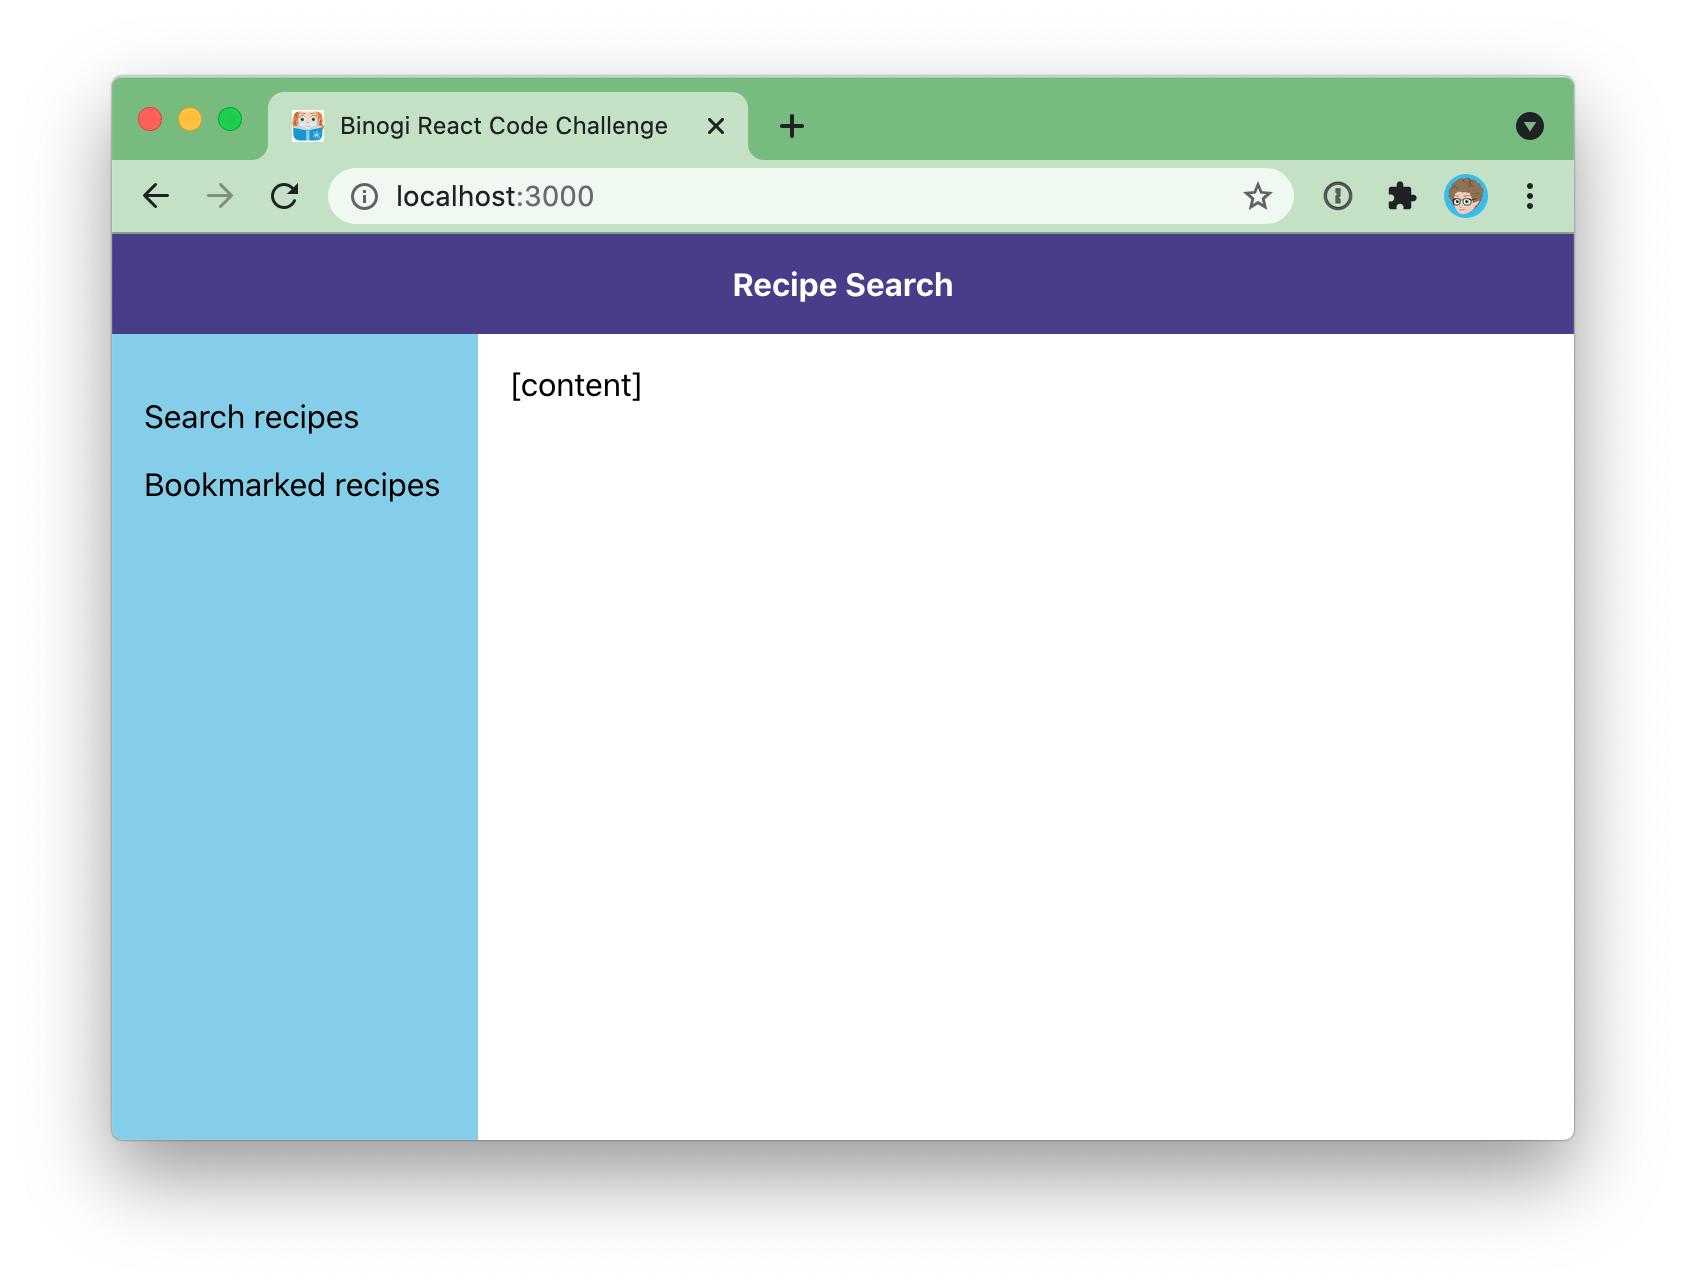
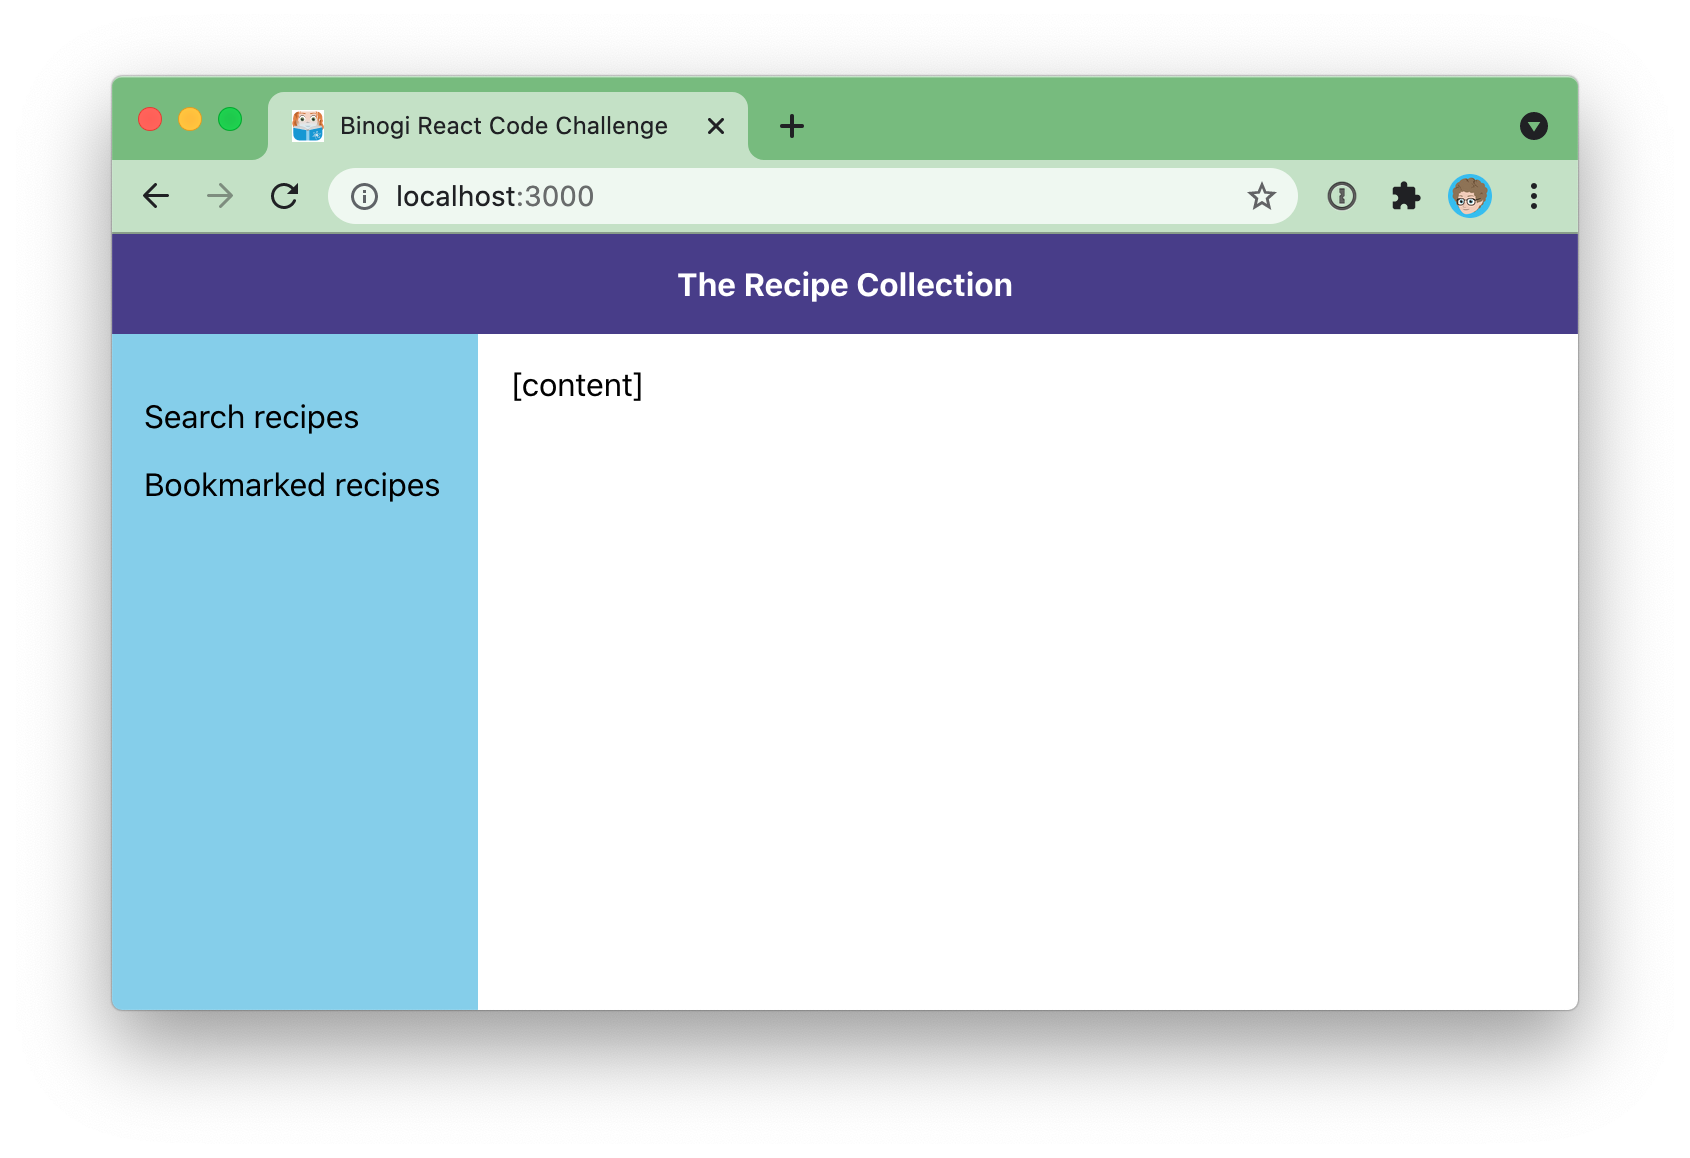
“The Recipe Collection”

Changed region(s): [[0.0617, 0.0311, 0.9561, 0.4352], [0.0617, 0.8705, 0.9561, 0.9016]]

diff --git a/src/App.js b/src/App.js
@@ -5,7 +5,7 @@ function App() {
   return (
     <div className="App">
       <header className="header">
-        Recipe Search
+        The Recipe Collection
       </header>
 
       <nav className="sidebar">
